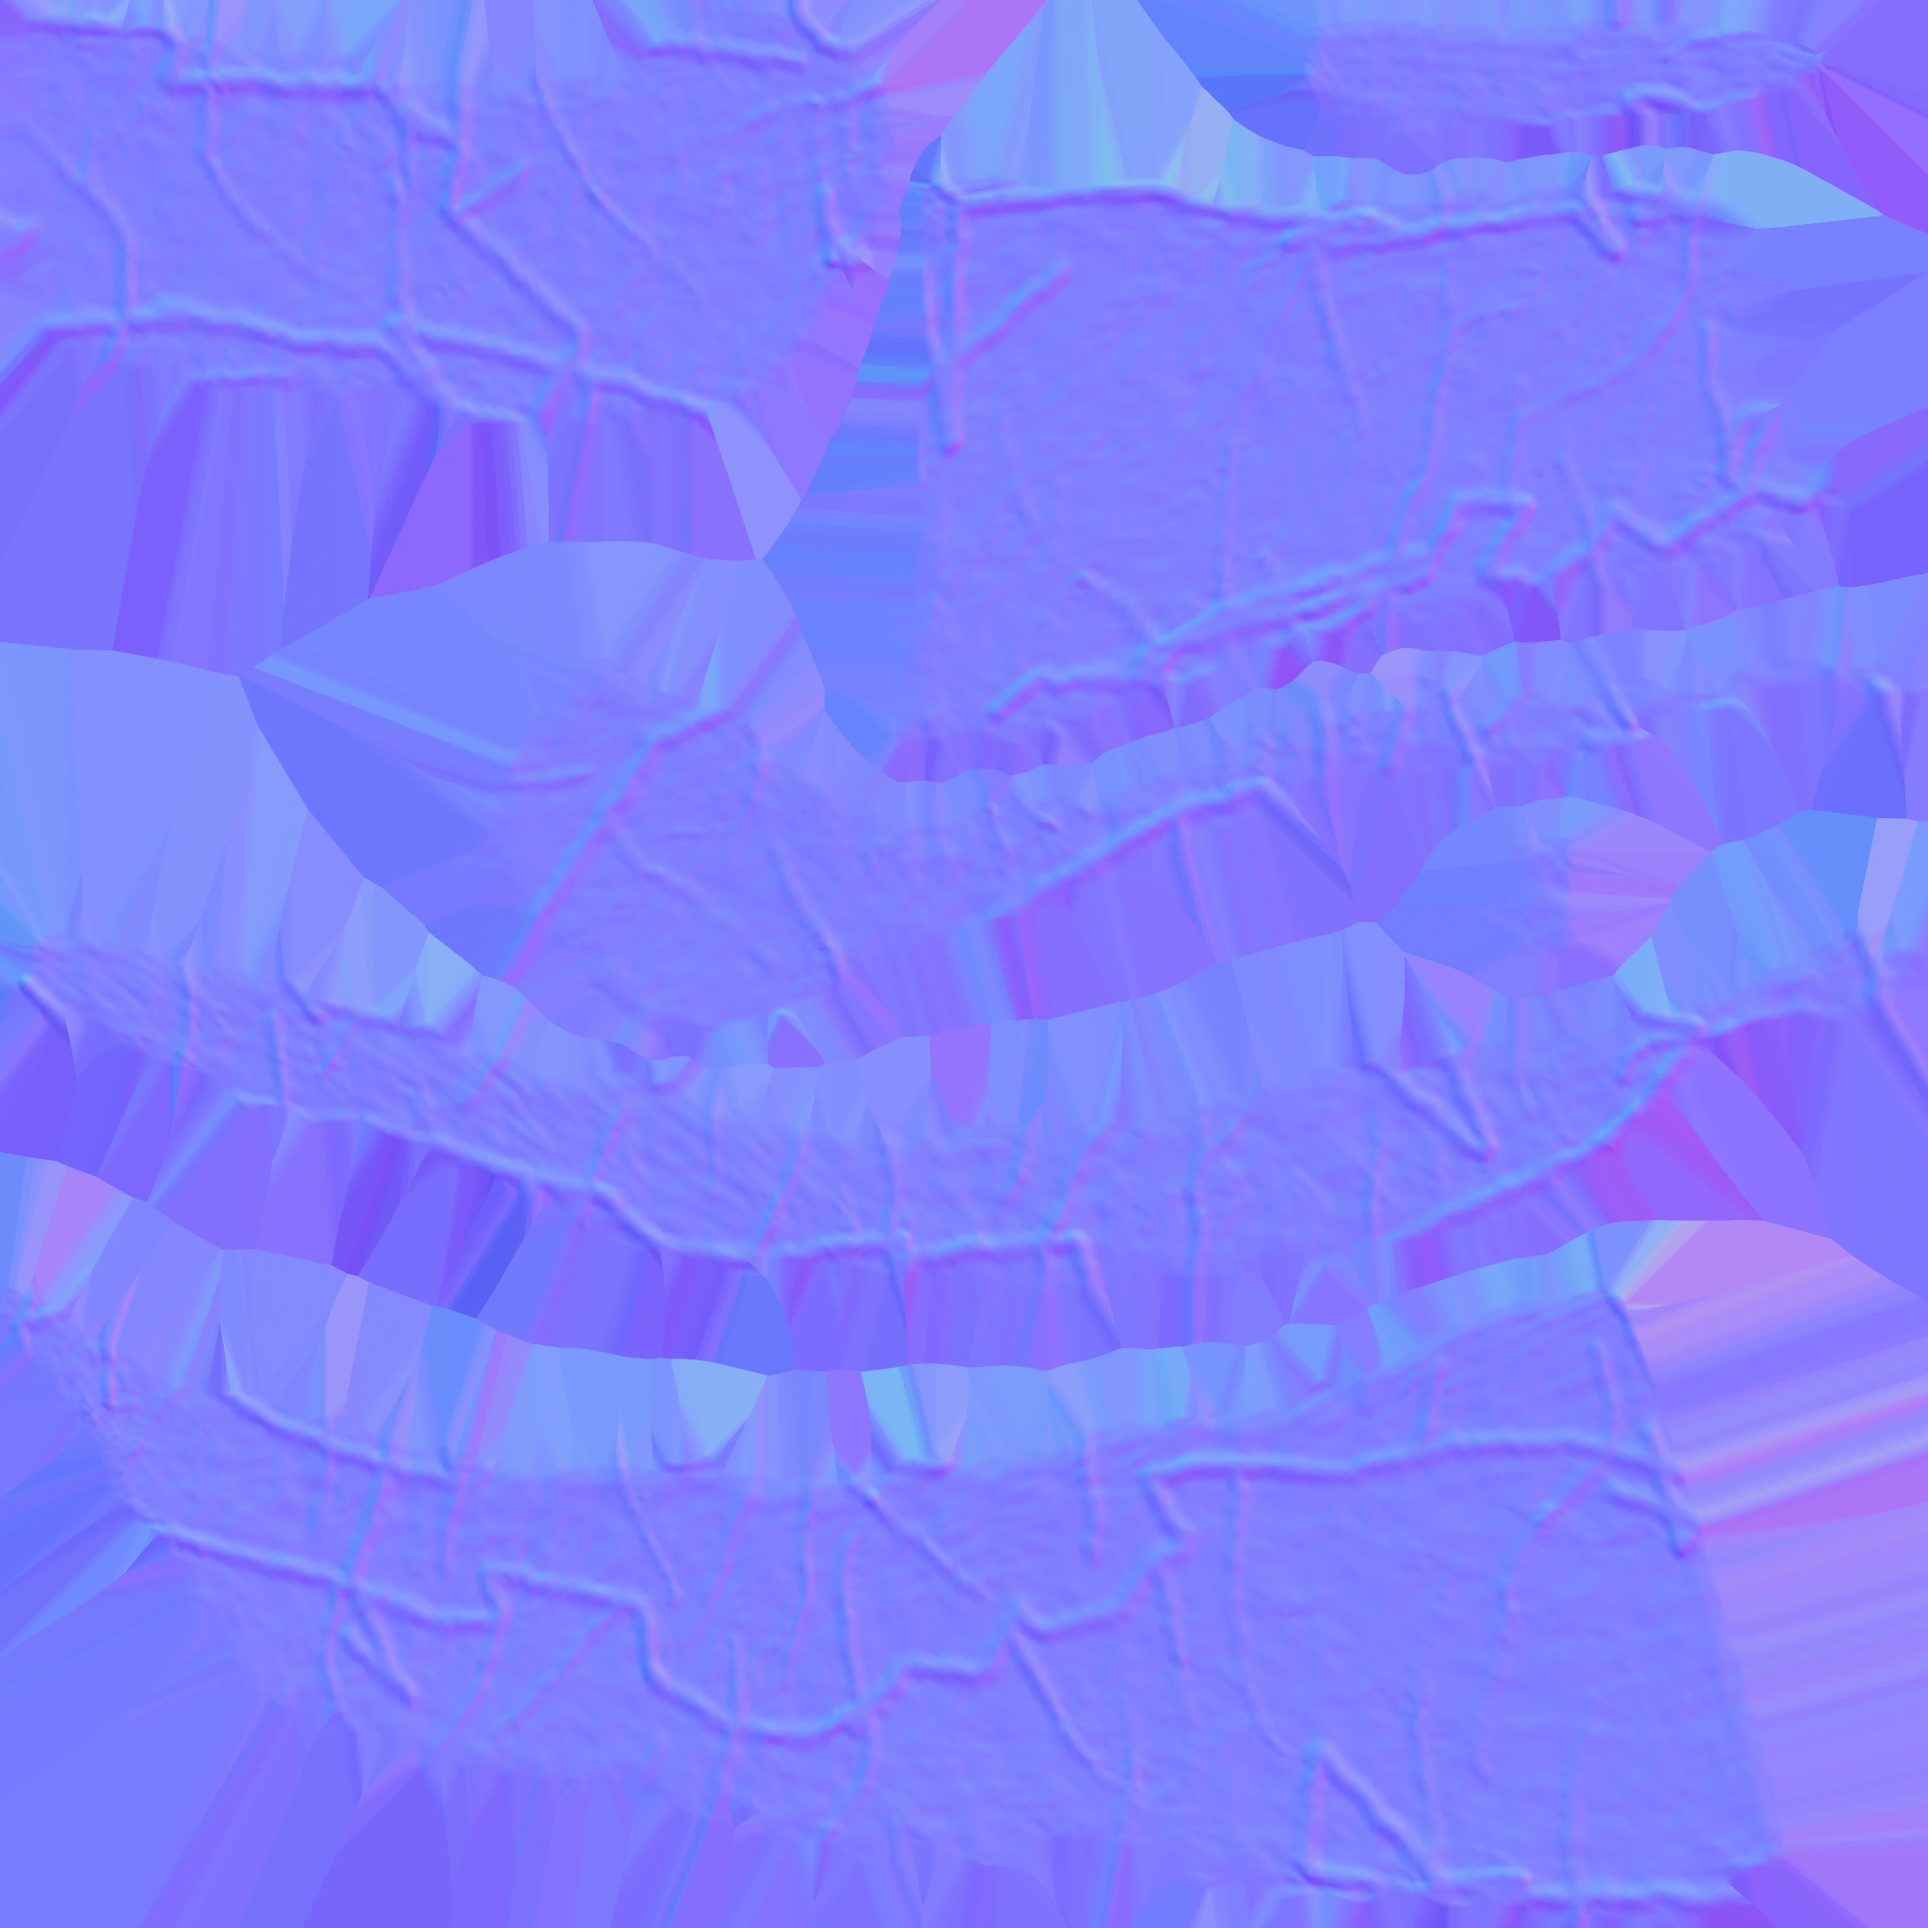
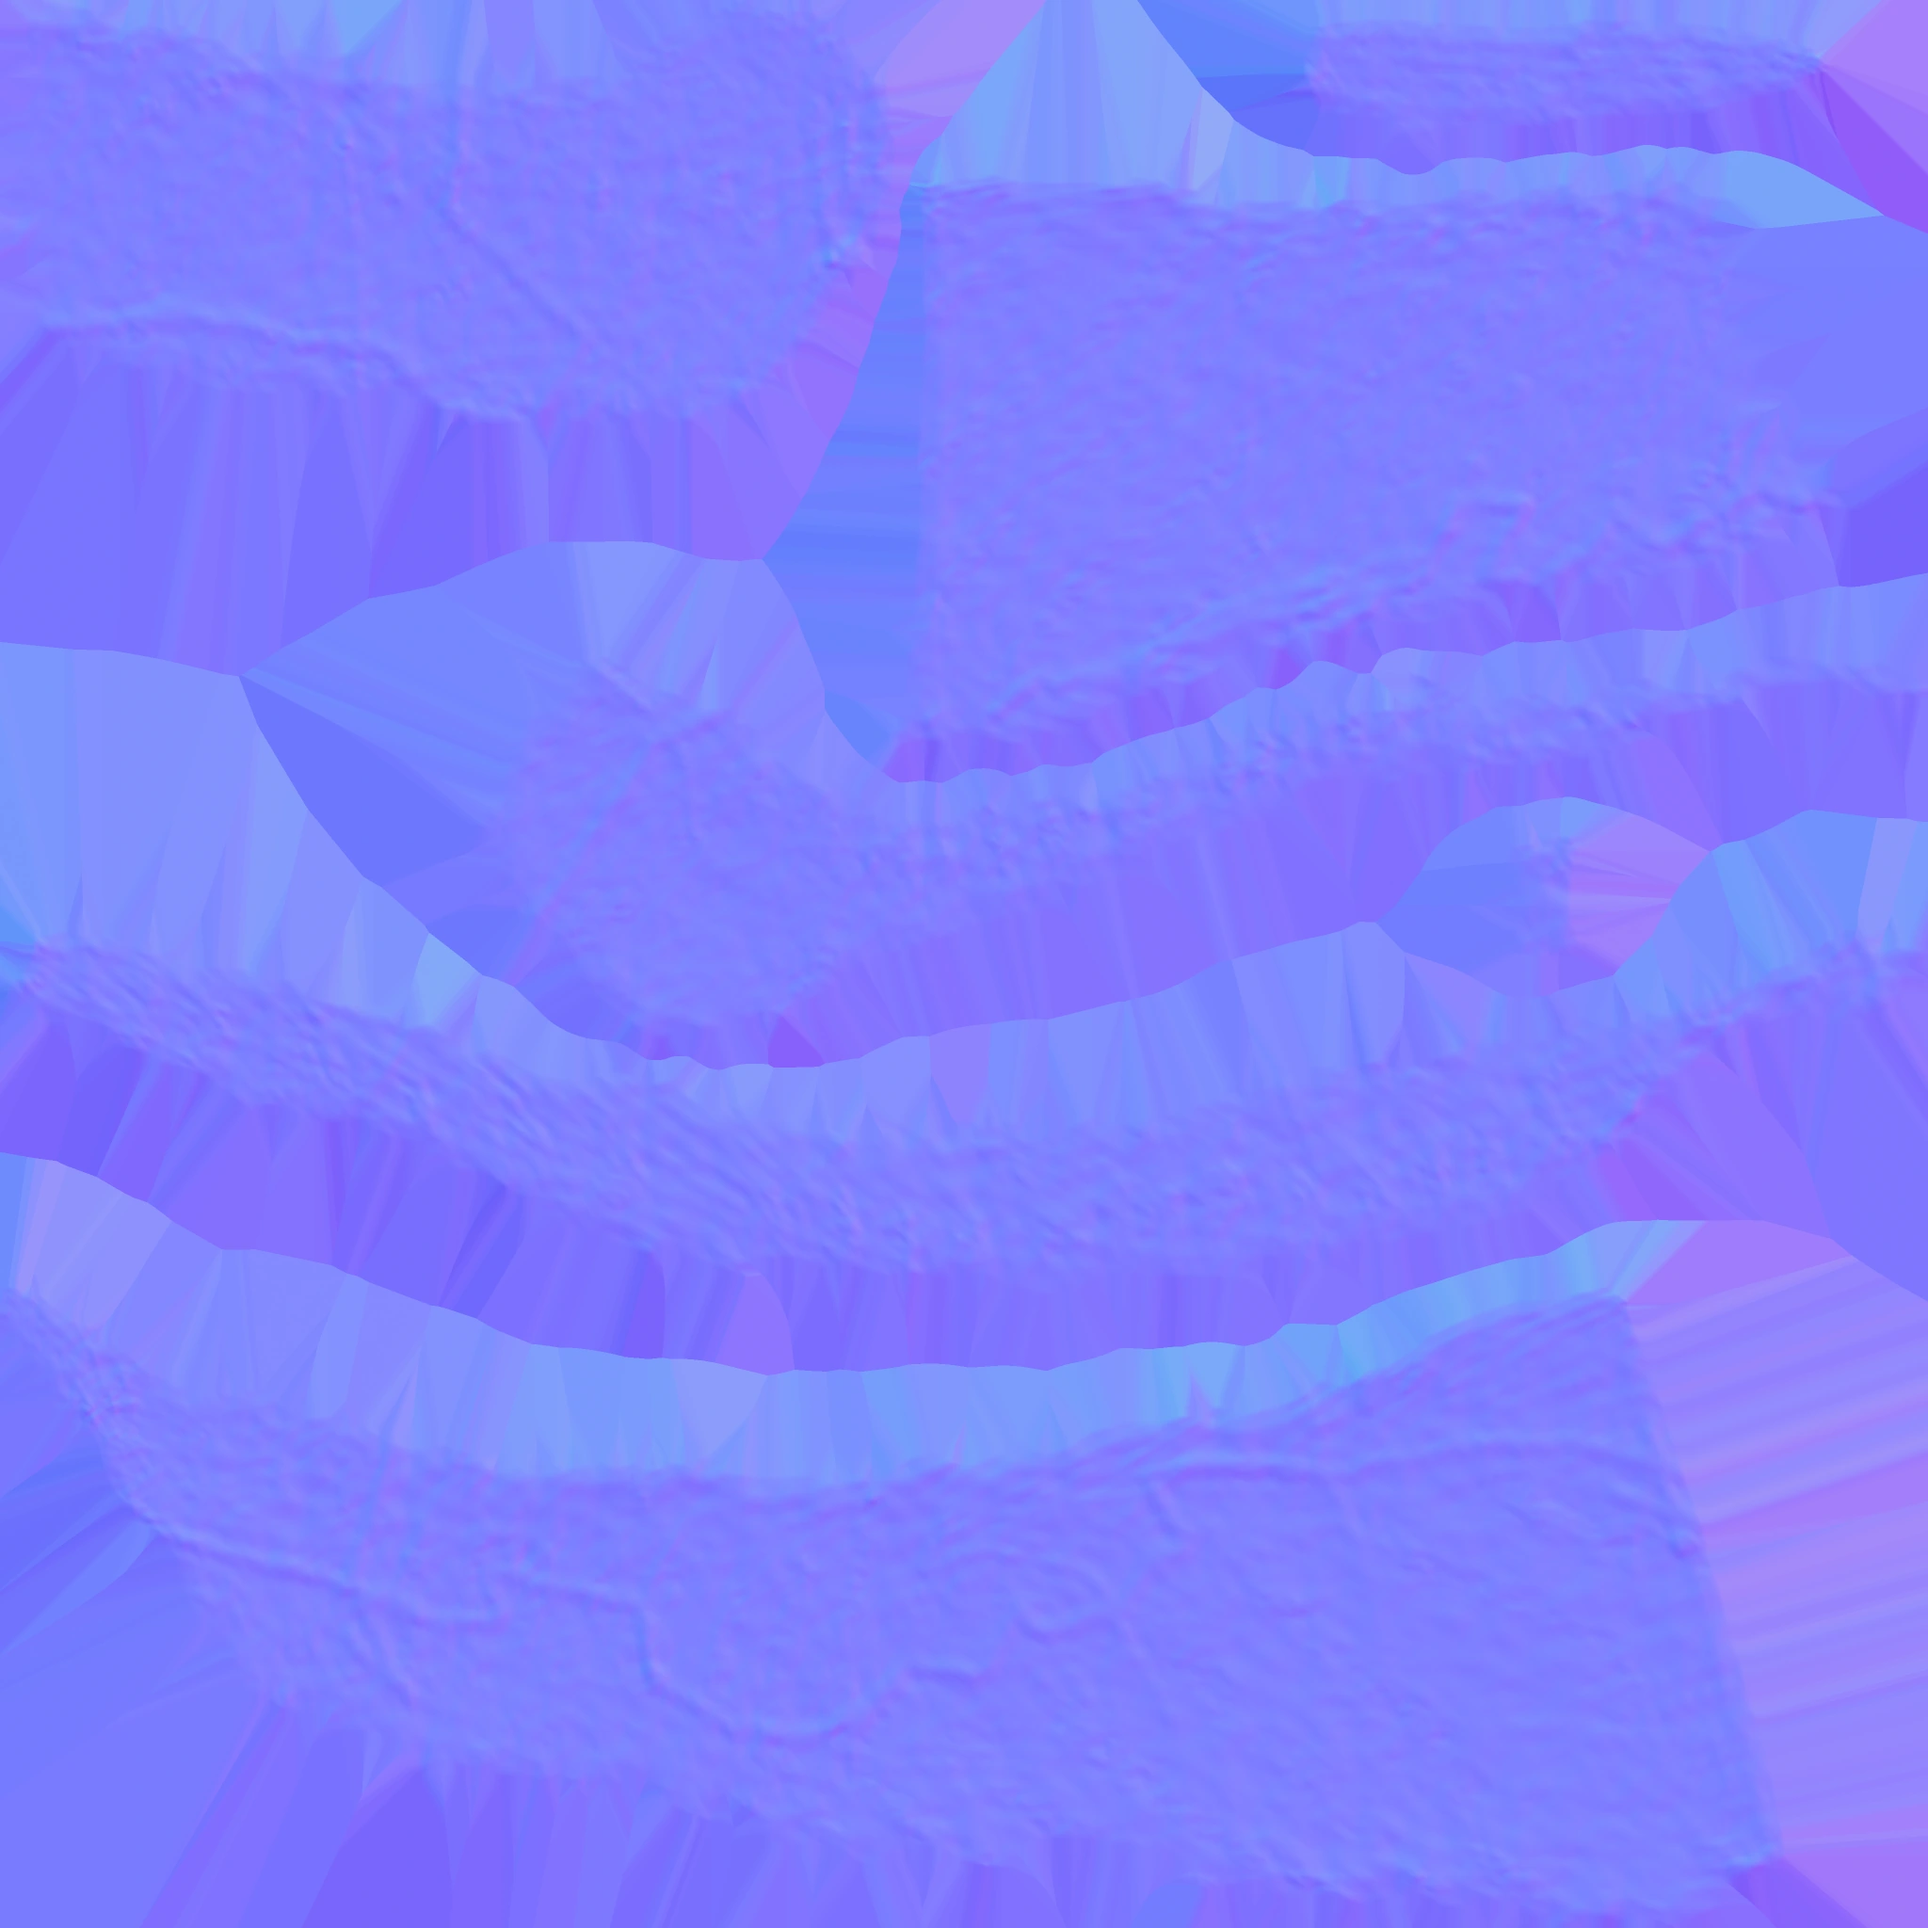
Task 7: less surface vascularity on the oesophagus
Two longitudinal trunks instead of four, branches every ~16 mm instead of 9 and 6–12 mm long instead of 8–18, vessel colour
at about half strength and barely raised. Oesophagus maps re-baked.

Claude-Session: https://claude.ai/code/session_01NbmsN7L12bzQ6FyRe6mrkM

diff --git a/pipeline/organs45.py b/pipeline/organs45.py
@@ -152,12 +152,12 @@ def vessels_for(organ, V, F, seed=45):
     if organ == 'esophagus':
         _, _, cen = curvature_lines(V, F, LAND['oes_top'], LAND['goj'], 40); arc = []
         T = np.gradient(cen, axis=0); T /= np.linalg.norm(T, axis=1, keepdims=True)
-        for a in np.radians([20, 110, 200, 290]):
+        for a in np.radians([20, 200]):                                          # v46: two trunks (were four)
             u = np.cross(T, [1.0, 0, 0]); u /= np.linalg.norm(u, axis=1, keepdims=True); w = np.cross(T, u)
             wig = 0.9 * fbm(np.c_[np.arange(len(cen)) * 0.35, np.full(len(cen), a), np.zeros(len(cen))], 2, seed=51)   # wandering, not straight
             aa = a + wig
             line = cen + (u * np.cos(aa)[:, None] + w * np.sin(aa)[:, None]) * 0.3; line, _ = surf.project(line); arc.append((line[1:-1], 0.42))
-        return grow(surf, arc, rng, spacing=9.0, length=(8, 18), r0=0.32, avoid=1.6, split=7.0, angle=45)
+        return grow(surf, arc, rng, spacing=16.0, length=(6, 12), r0=0.28, avoid=2.2, split=9.0, angle=45)   # v46: sparser, shorter (were 9 mm / 8–18 mm / 0.32)
     if organ in ('kidney_left', 'kidney_right'):   # faint capsular vessels from the hilum
         c = V.mean(0); h = LAND['head'] if organ == 'kidney_right' else np.array([0.5, -0.7, -0.3])
         hil = V[np.argmin(np.linalg.norm(V - (c + 0.6 * (h - c) / np.linalg.norm(h - c)), axis=1))]
@@ -179,7 +179,7 @@ def height(organ, X, vf=None):
         h = 0.0006 * fbm(X * 6.0, 2, seed=15) + 0.00025 * fbm(X * 45.0, 2, seed=16)       # smooth capsule
     if organ in ('kidney_left', 'kidney_right'):
         h = 0.0007 * fbm(X * 9.0, 3, seed=17) + 0.0003 * fbm(X * 60.0, 2, seed=18)
-    if vf is not None: h = h + vf(X)[2]
+    if vf is not None: h = h + vf(X)[2] * (0.4 if organ == 'esophagus' else 1.0)   # v46: oesophageal vessels barely raised
     return h
 
 
@@ -210,7 +210,8 @@ def compose(organ, X, ao, cav, curv, thick, onrm, vf=None):
     if vf is not None:
         core, edge, _ = vf(X)
         pale, dark = lin('#C86E68'), lin('#5A1216')
-        e = edge * (0.55 if organ.startswith('kidney') else 0.85); c = core * (0.45 if organ.startswith('kidney') else 0.80)
+        e = edge * (0.55 if organ.startswith('kidney') else 0.45 if organ == 'esophagus' else 0.85)   # v46: oesophagus fainter (was 0.85 / 0.80)
+        c = core * (0.45 if organ.startswith('kidney') else 0.45 if organ == 'esophagus' else 0.80)
         col = col * (1 - e)[:, None] + pale[None] * e[:, None]; col = col * (1 - c)[:, None] + dark[None] * c[:, None]
         rough = np.clip(rough + 0.10 * edge, 0, 1); wet = wet * (1 - 0.35 * edge)   # vessels a little less glossy than the serosa
     col = col * (0.70 + 0.30 * ao ** 0.8)[:, None] * (0.88 + 0.12 * cav)[:, None]
